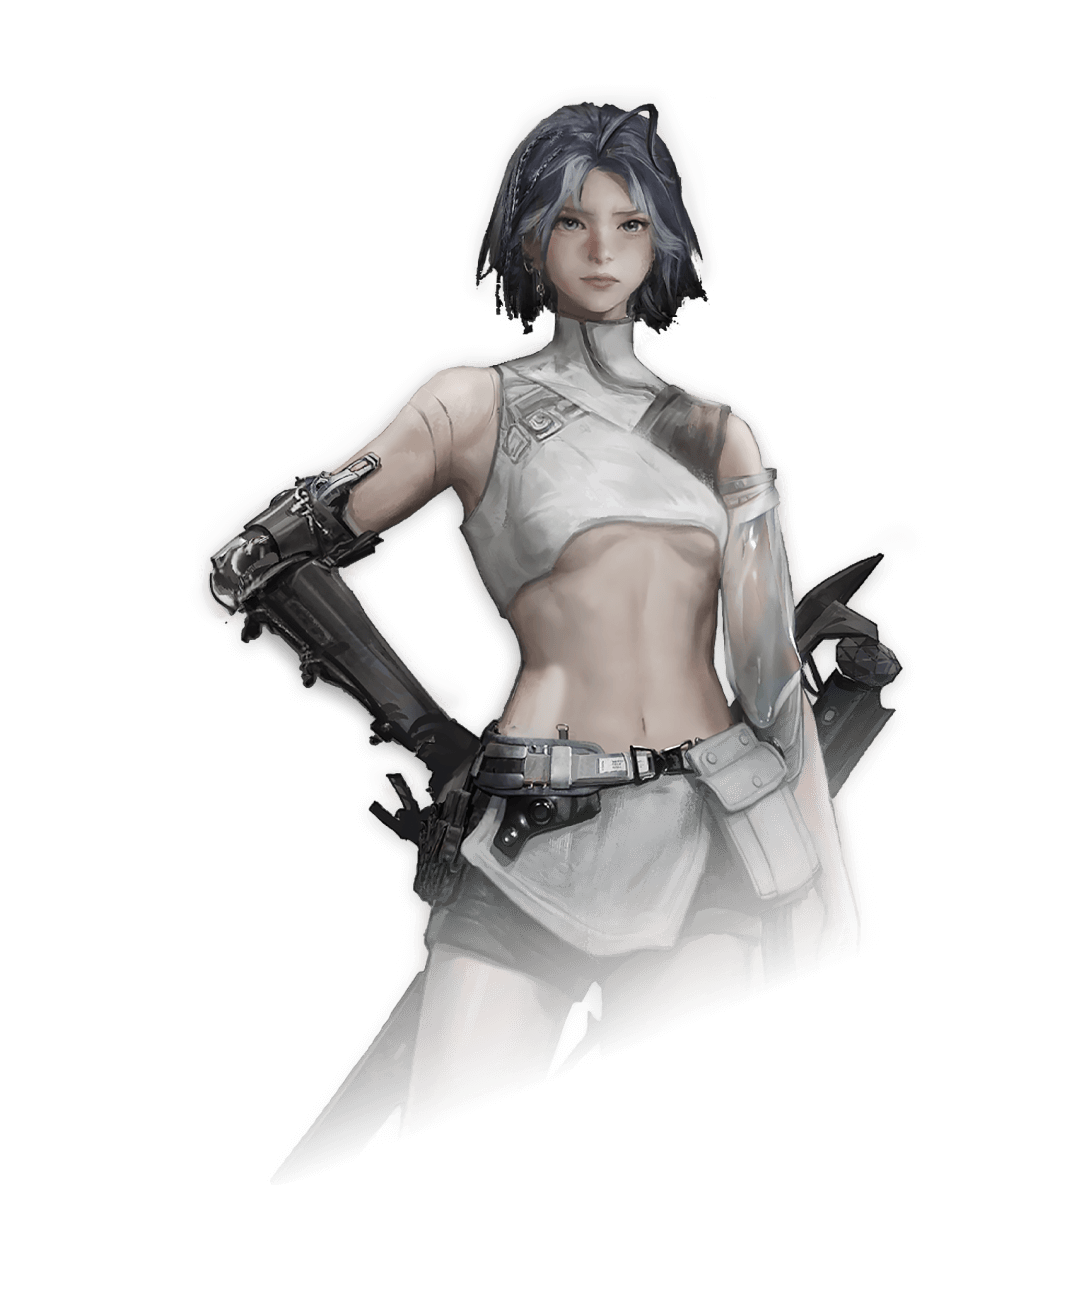
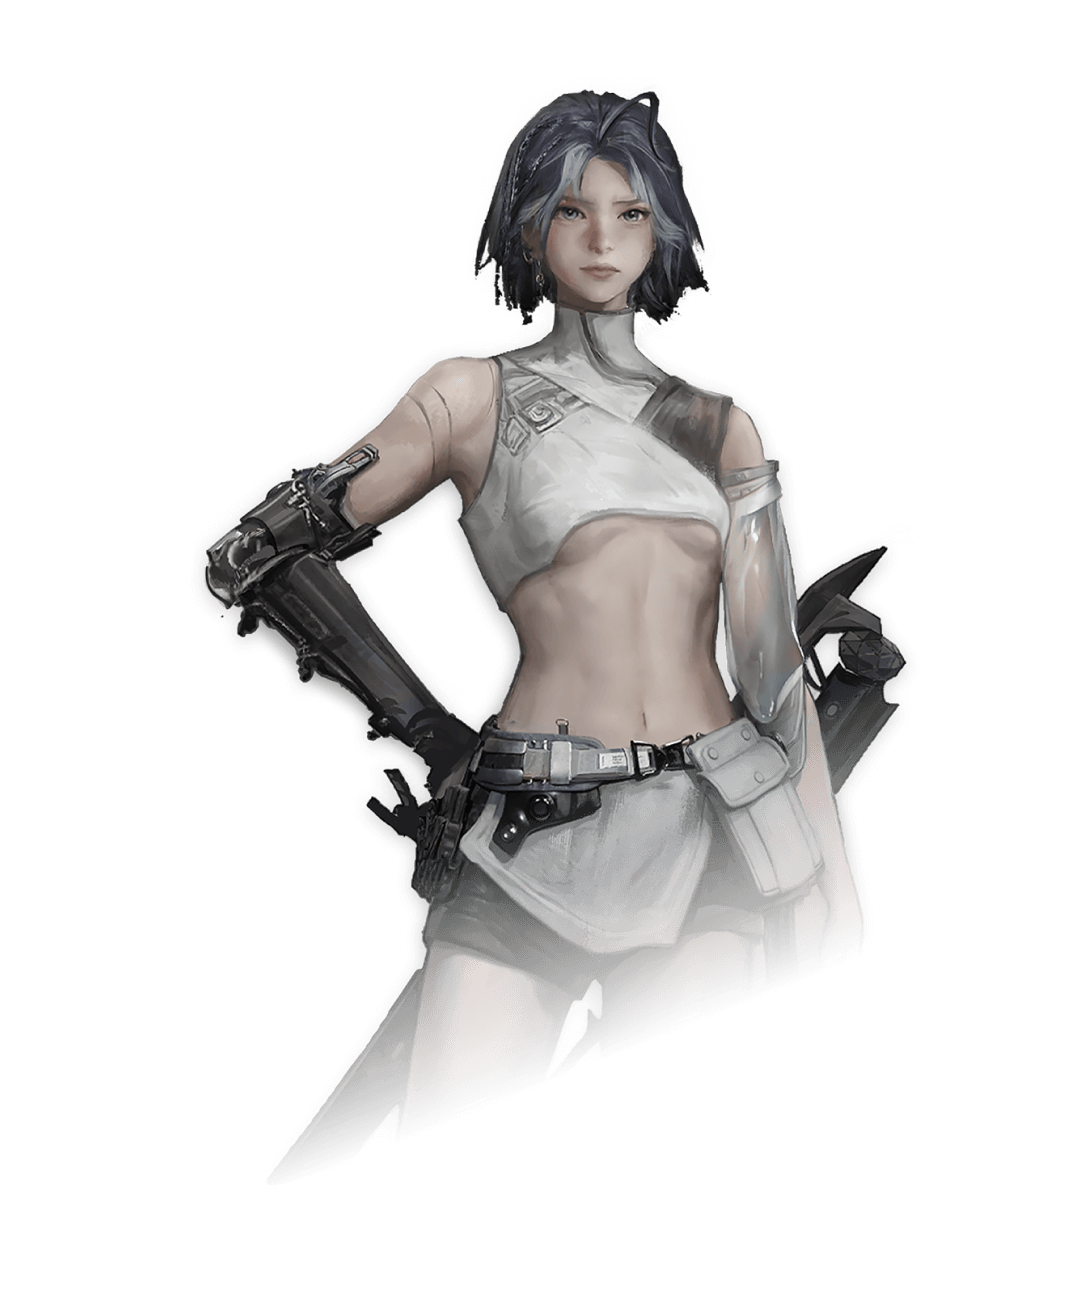
kong

Changed region(s): [[0.1873, 0.0611, 0.843, 0.7328], [0.3434, 0.7634, 0.3747, 0.7939], [0.3122, 0.7939, 0.3434, 0.8244]]

diff --git a/src/components/game/εCharacter.vue b/src/components/game/εCharacter.vue
@@ -10,7 +10,7 @@
                         <div class="character-item" v-show="current === index">
                             <img class="background" :src="item.background" />
                             <img class="mask" :src="mask" /> 
-                            <img class="image" :class="[item.name, { 'image-have-header': store.ratio > ratioPC && !store.pad }]"  :src="item.image" />
+                            <img class="image" :class="[item.name]" :style="{ transform: `scale(${store.ratio > ratioPC && !store.pad ? ((store.height - 80) / store.height) : 1})` }" :src="item.image" />
                             <img class="symbol" :class="item.name" :src="item.symbol" />
                             <img class="fullname" :class="item.name" :src="item.fullname" />
                             <img class="info" :src="info" @click="popup = true" />
@@ -160,21 +160,17 @@ function goIndex(index) {
 
                 .image {
                     position: absolute;
-
-                    &.image-have-header {
-                        transform: scale(0.85);
-                        transform-origin: center bottom;
-                    }
+                    transform-origin: center bottom;
 
                     &.jing {
                         bottom: auto-value(-160);
-                        width: auto-value(1020);
+                        width: auto-value(1060);
                         margin-right: auto-value(100);
                     }
 
                     &.wyatt {
                         bottom: auto-value(-160);
-                        width: auto-value(1040);
+                        width: auto-value(1060);
                         margin-right: auto-value(120);
                     }
 
